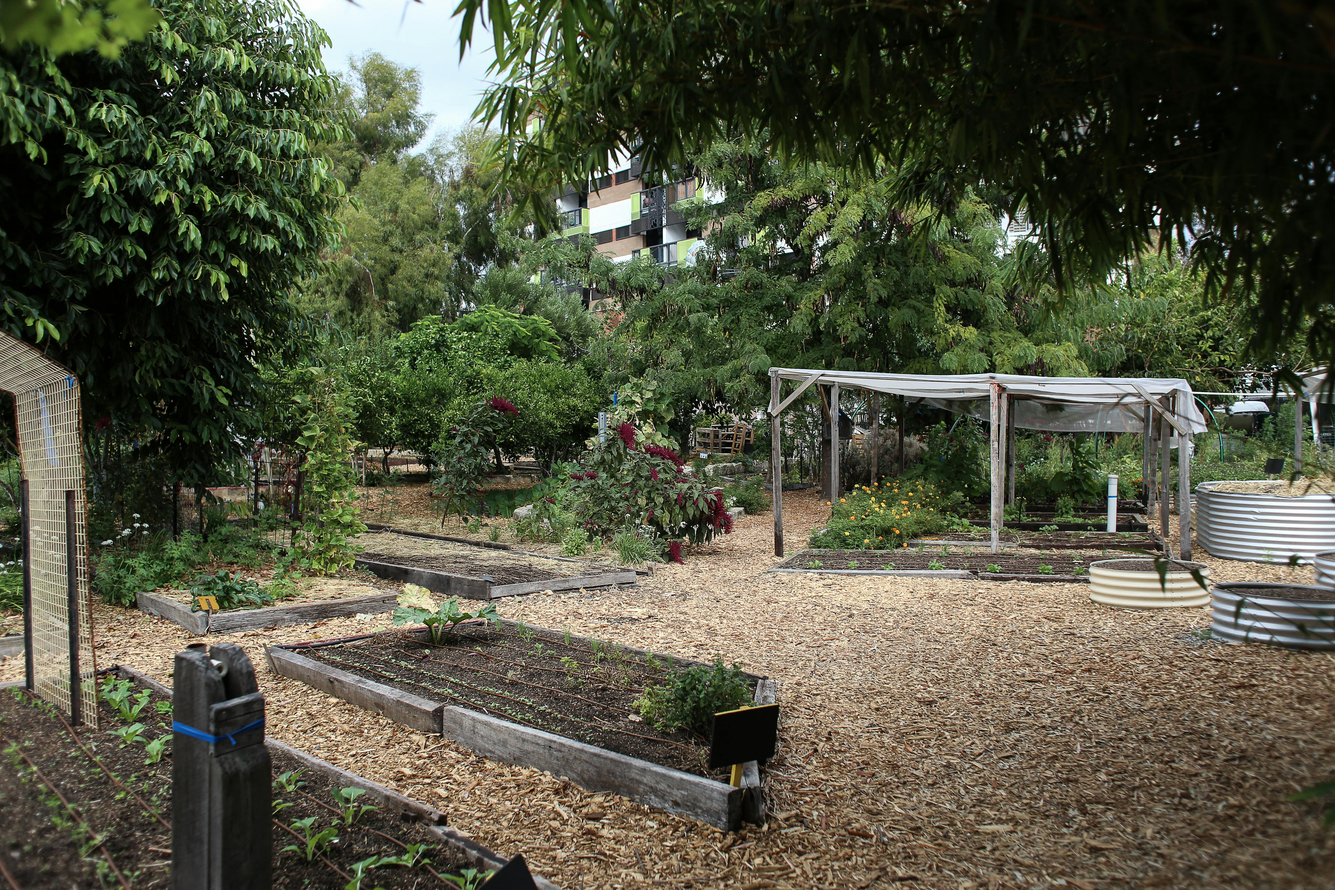
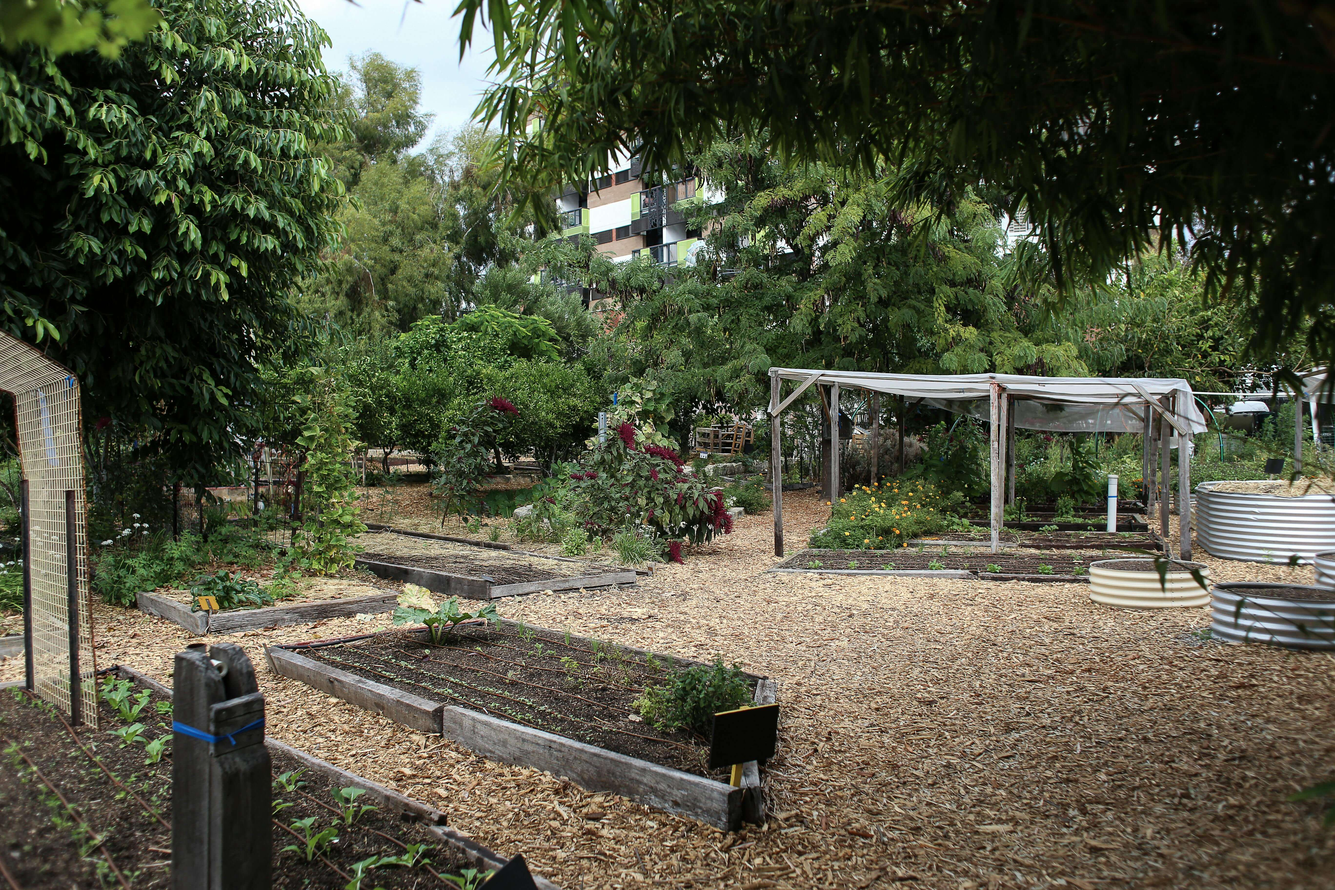
chore(assets): Compressao de imagens concluida e documentacao finalizada no README.

diff --git a/js/script-projetos.js b/js/script-projetos.js
@@ -1,7 +1,3 @@
-// TÓPICO 13: Templates JavaScript e Manipulação do DOM
-// Metáfora: Esta função pega um objeto (os dados do projeto) e "carimba"
-// um bloco HTML completo, injetando os valores (${...}) nos lugares certos.
-
 document.addEventListener('DOMContentLoaded', function() {
     
     // 1. Dados: Uma lista de objetos para simular dados de um servidor

diff --git a/js/script-cadastro.js b/js/script-cadastro.js
@@ -1,5 +1,3 @@
-// TÓPICO 9: ESTRUTURA PARA VALIDAÇÃO DE FORMULÁRIOS
-// Metáfora: O JavaScript é o porteiro do formulário. Ele intercepta a submissão para validar os dados.
 console.log("O SCRIPT ESTÁ SENDO LIDO!"); 
 
 document.addEventListener('DOMContentLoaded', function() {

diff --git a/README.md b/README.md
@@ -1,1 +1,8 @@
 # AulaPrograma-oWeb01
+
+## Otimizações de Produção e Acessibilidade
+- Minificação: Otimização de todos os CSS e JS para a versão .min.
+
+- Acessibilidade: Implementação da funcionalidade de Modo Escuro.
+
+- Desempenho: Compressão das imagens.
